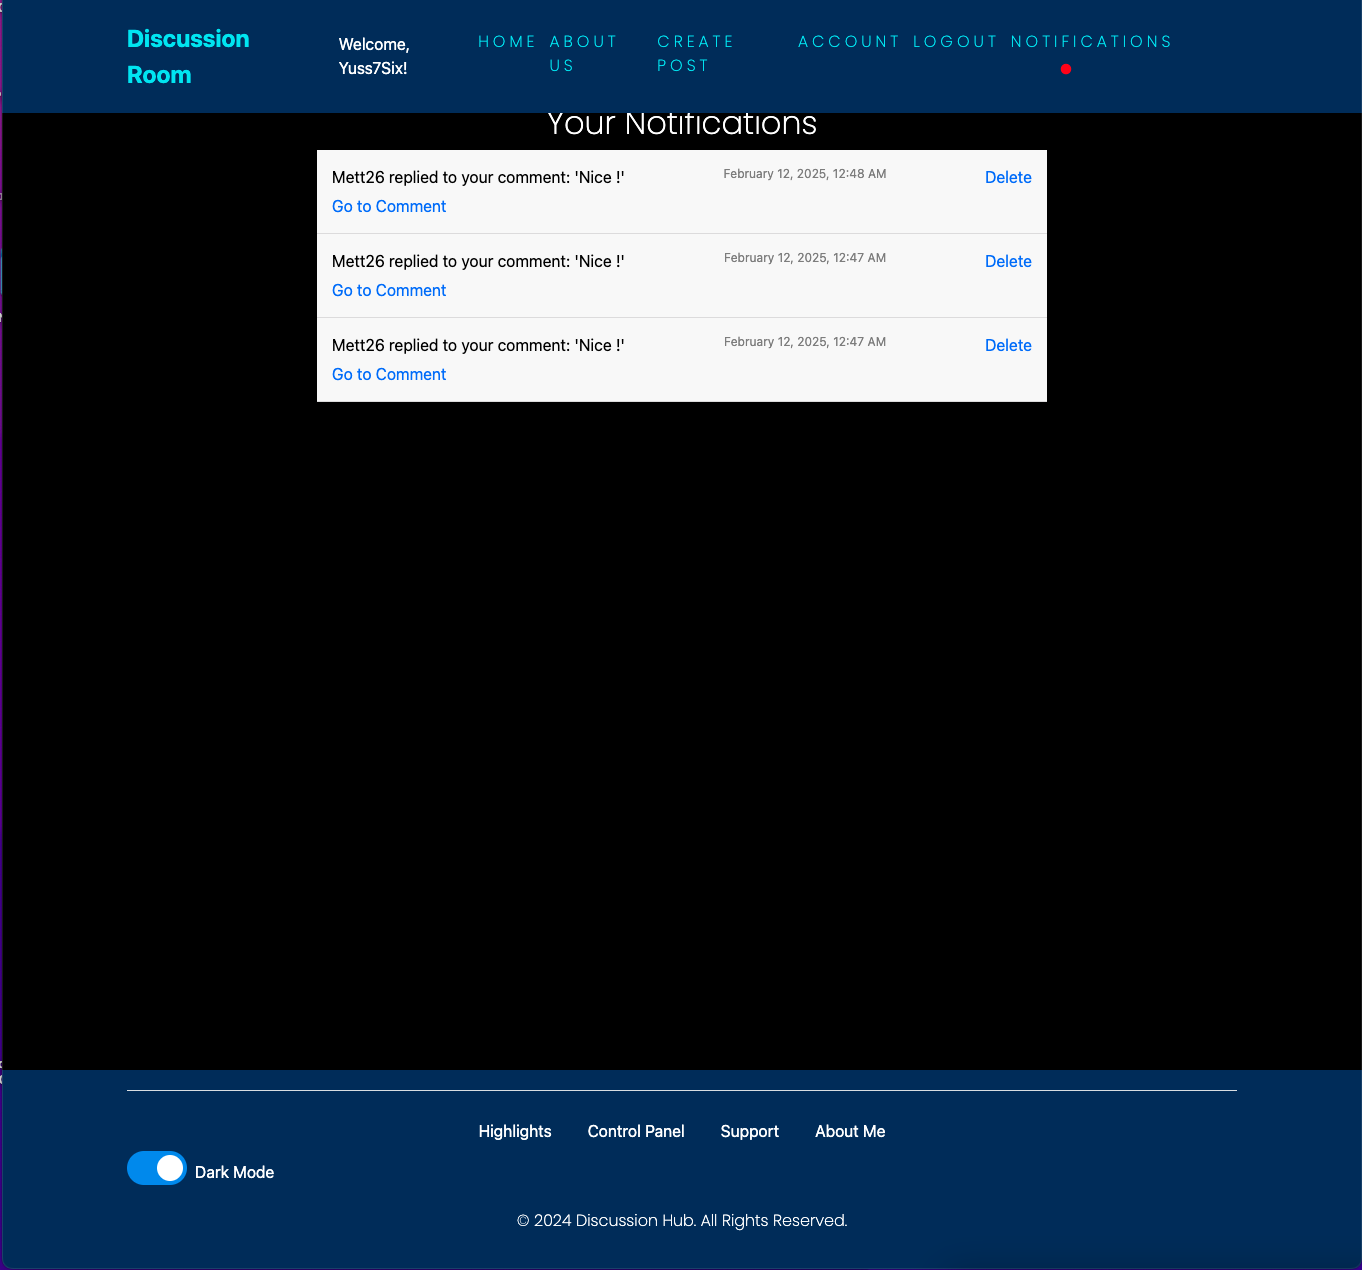
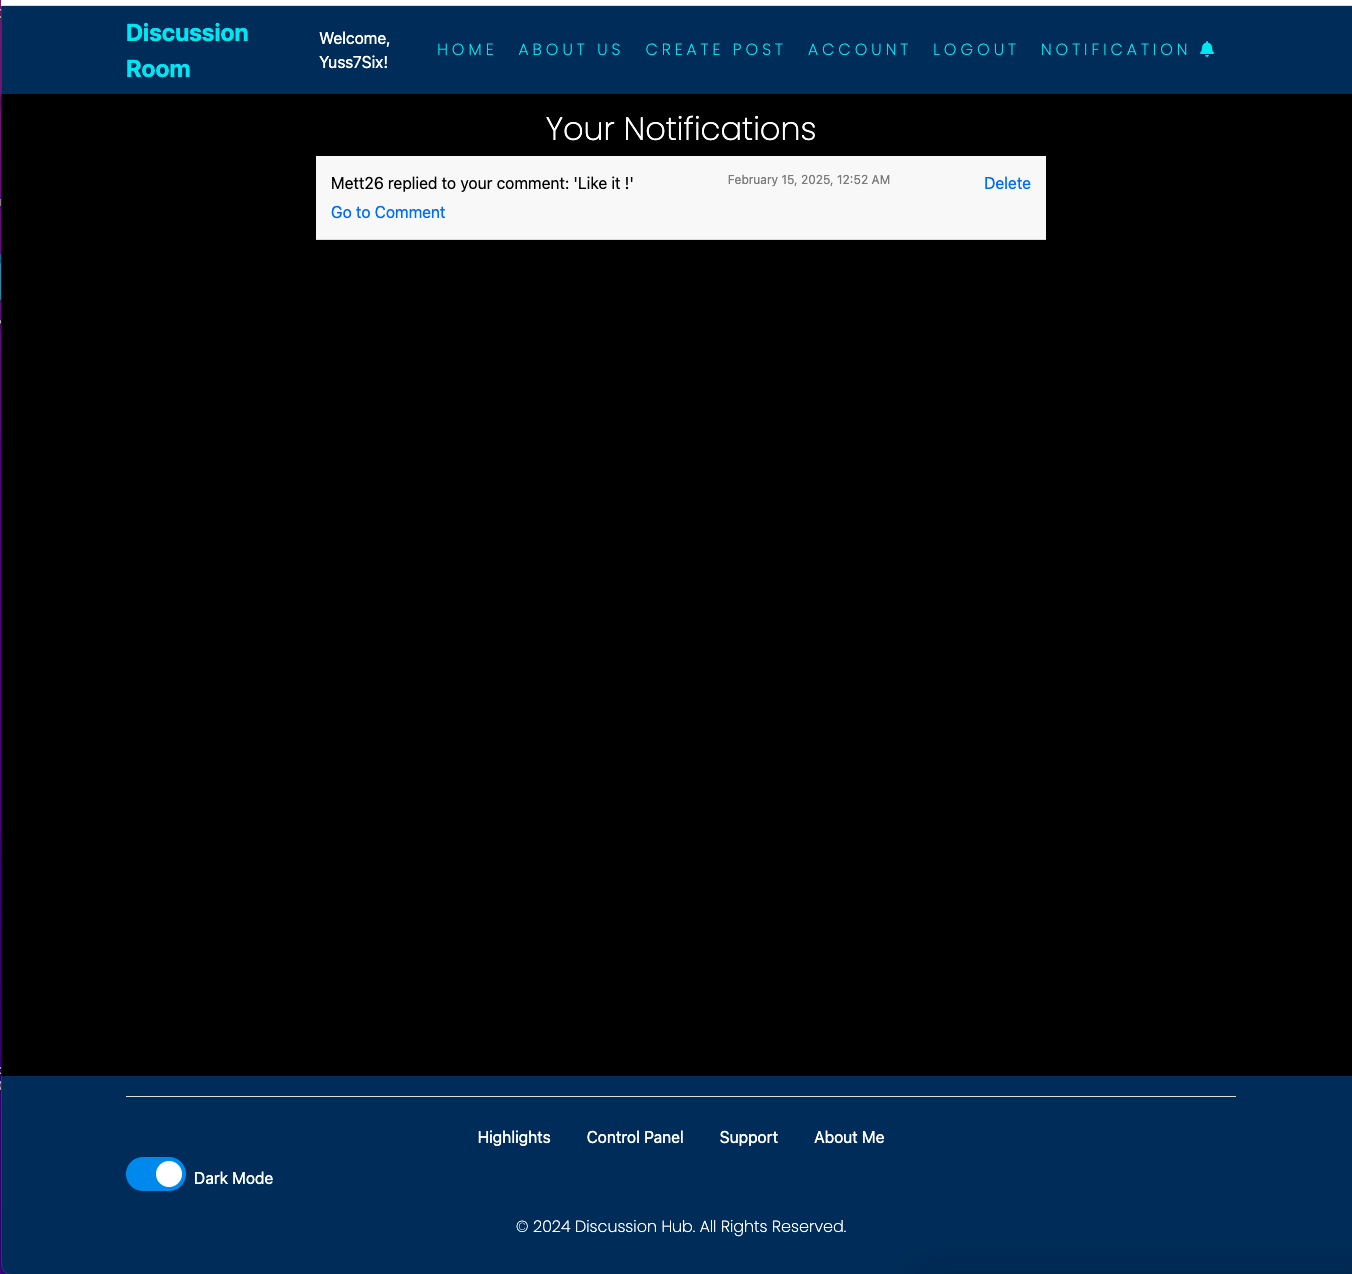
Modify the pictures of section, notification, notification dark mode and mobile navbar

diff --git a/templates/base.html b/templates/base.html
@@ -66,8 +66,8 @@
                                 aria-label="Logout of your account">Logout</a>
                             <a class="nav-item nav-link" href="{% url 'notifications' %}" id="auth-links-notifications"
                                 aria-label="View your notifications">
-                                <i class="fas fa-bell {% if request.user.is_authenticated and unread_count > 0 %}visible{% else %}hidden{% endif %}"></i>
                                 Notification
+                                <i class="fas fa-bell {% if request.user.is_authenticated and unread_count > 0 %}visible{% else %}hidden{% endif %}"></i>
                             </a>
                             {% else %}
                             <a class=" nav-item nav-link" href="{% url 'login' %}" id="auth-links-login"

diff --git a/README.md b/README.md
@@ -680,7 +680,7 @@ In this window, users will have two options:
 
 ### Notifications
 
-In the Notifications Page, users will see notifications for replies to comments they have posted on various forum posts. When users log in or when someone replies to their comment, a red dot will appear below the notification button, indicating that they have new notifications.
+In the Notifications Page, users will see notifications for replies to comments they have posted on various forum posts. When users log in or when someone replies to their comment, a bell icon will appear next to the notification button, indicating that they have new notifications.
 
 If there are no notifications, users will simply see a message stating that there are no notifications available, ensuring clear communication without unnecessary clutter.
 
@@ -690,8 +690,11 @@ If there are no notifications, users will simply see a message stating that ther
 *Notification Page Mobile*<br>
 ![Notification Page Mobile](static/images/screenshots/pagenotificationmobile.png)
 
-*Red Dot*<br>
-![Red Dot](static/images/screenshots/redpoint.png)
+*Bell Icon*<br>
+![Bell Icon](static/images/screenshots/bellicon.png)
+
+*Delete Notification*<br>
+![Delete Notification](static/images/screenshots/deletenotification.png)
 
 * In the Notifications Page, users will see notifications for replies to comments they have posted on various forum posts. If a user has notifications, they will see messages formatted as follows: "User [username] replied to your comment: [main comment content]." Each notification will include the date and time of the reply.Users will also have options to Delete the notification or Go to the comment, allowing them to manage their interactions effectively.
 
@@ -1084,7 +1087,7 @@ Additionally, users will have two options for each notification:
 
 Delete: To remove the notification and keep the notifications page clean and organized.
 Go to Comment: This option will link the user directly to the specific comment they posted, allowing for easy navigation and engagement with the discussion.
-Before arriving at this page, logged-in users will notice a red dot below the notifications link in the navbar, indicating that there are new notifications to check.
+Before arriving at this page, logged-in users will notice a bell icon next to the notifications link in the navbar, indicating that there are new notifications to check.
 
 *Notifications Page Dark Mode Desktop*<br>
 ![Notifications Page Dark Mode Desktop](static/images/screenshots/darkmodewithnotificationsdesktop.png)
